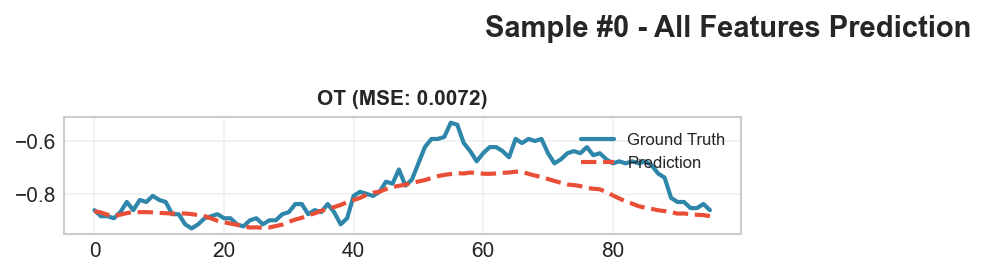
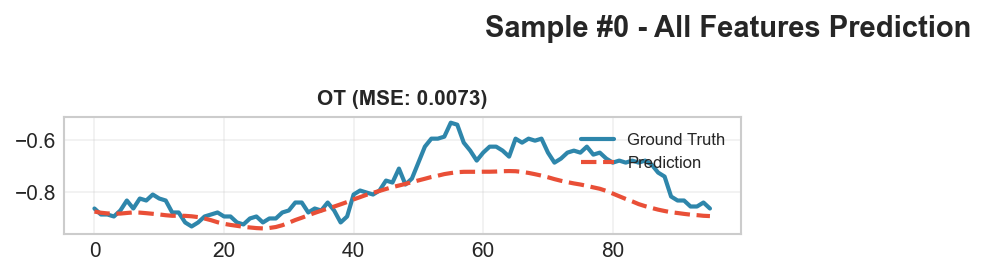
测试了其他几个模型

diff --git a/my_run.py b/my_run.py
@@ -62,6 +62,7 @@ PRED_LEN = 96     # 预测长度
 # ---------------------- 模型结构配置 ----------------------
 ENC_IN = 7        # 编码器输入特征数（ETTh1有7个特征）
 DEC_IN = 7        # 解码器输入特征数
+# TimeMixer + channel_independence=1 会按每个变量独立建模，输出维度需与变量数一致
 C_OUT = 1         # 输出特征数
 D_MODEL = 256     # 模型维度
 N_HEADS = 8       # 注意力头数
@@ -71,7 +72,7 @@ D_FF = 2048       # 前馈网络维度
 DROPOUT = 0.1     # Dropout率
 
 # ---------------------- 训练配置 ----------------------
-TRAIN_EPOCHS = 50    # 训练轮数
+TRAIN_EPOCHS = 30    # 训练轮数
 BATCH_SIZE = 32      # 批次大小
 LEARNING_RATE = 0.0001  # 学习率
 PATIENCE = 3         # 早停耐心值
@@ -161,12 +162,12 @@ def main():
         expand=2,
         d_conv=4,
         moving_avg=25,
-        channel_independence=1,
+        channel_independence=0,
         decomp_method='moving_avg',
         use_norm=1,
-        down_sampling_layers=0,
-        down_sampling_window=1,
-        down_sampling_method=None,
+        down_sampling_layers=3,
+        down_sampling_window=2,
+        down_sampling_method='avg',
         seg_len=96,
         
         # 任务特定参数
